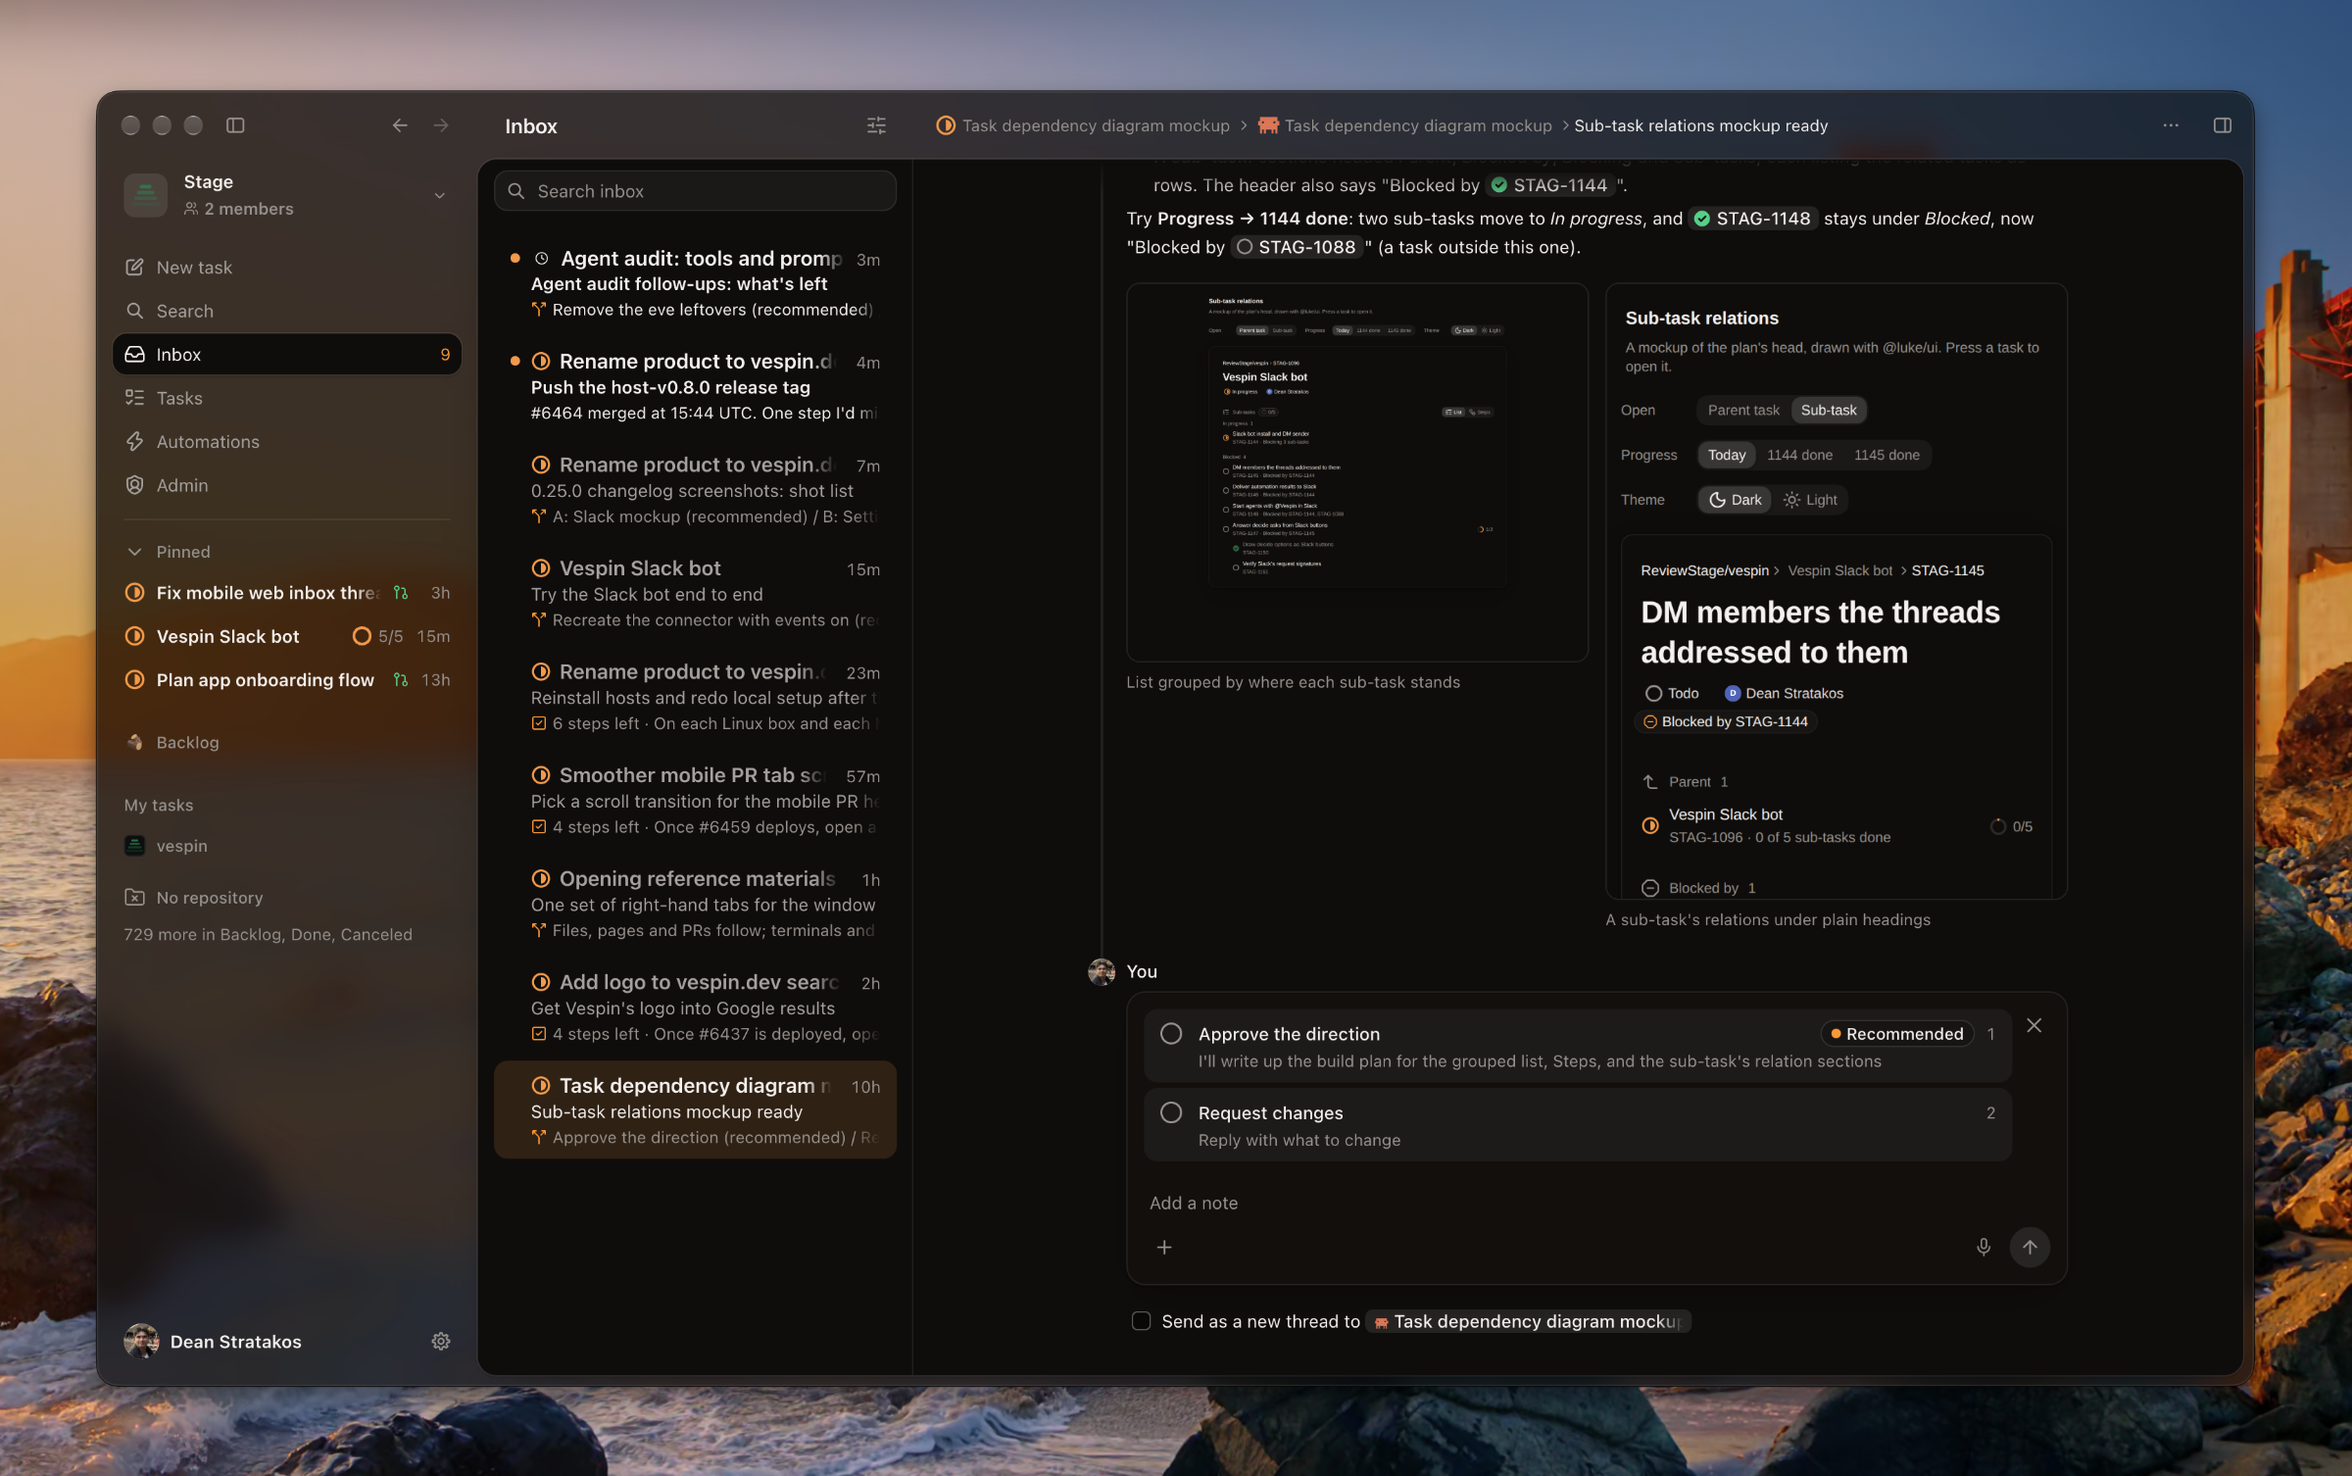
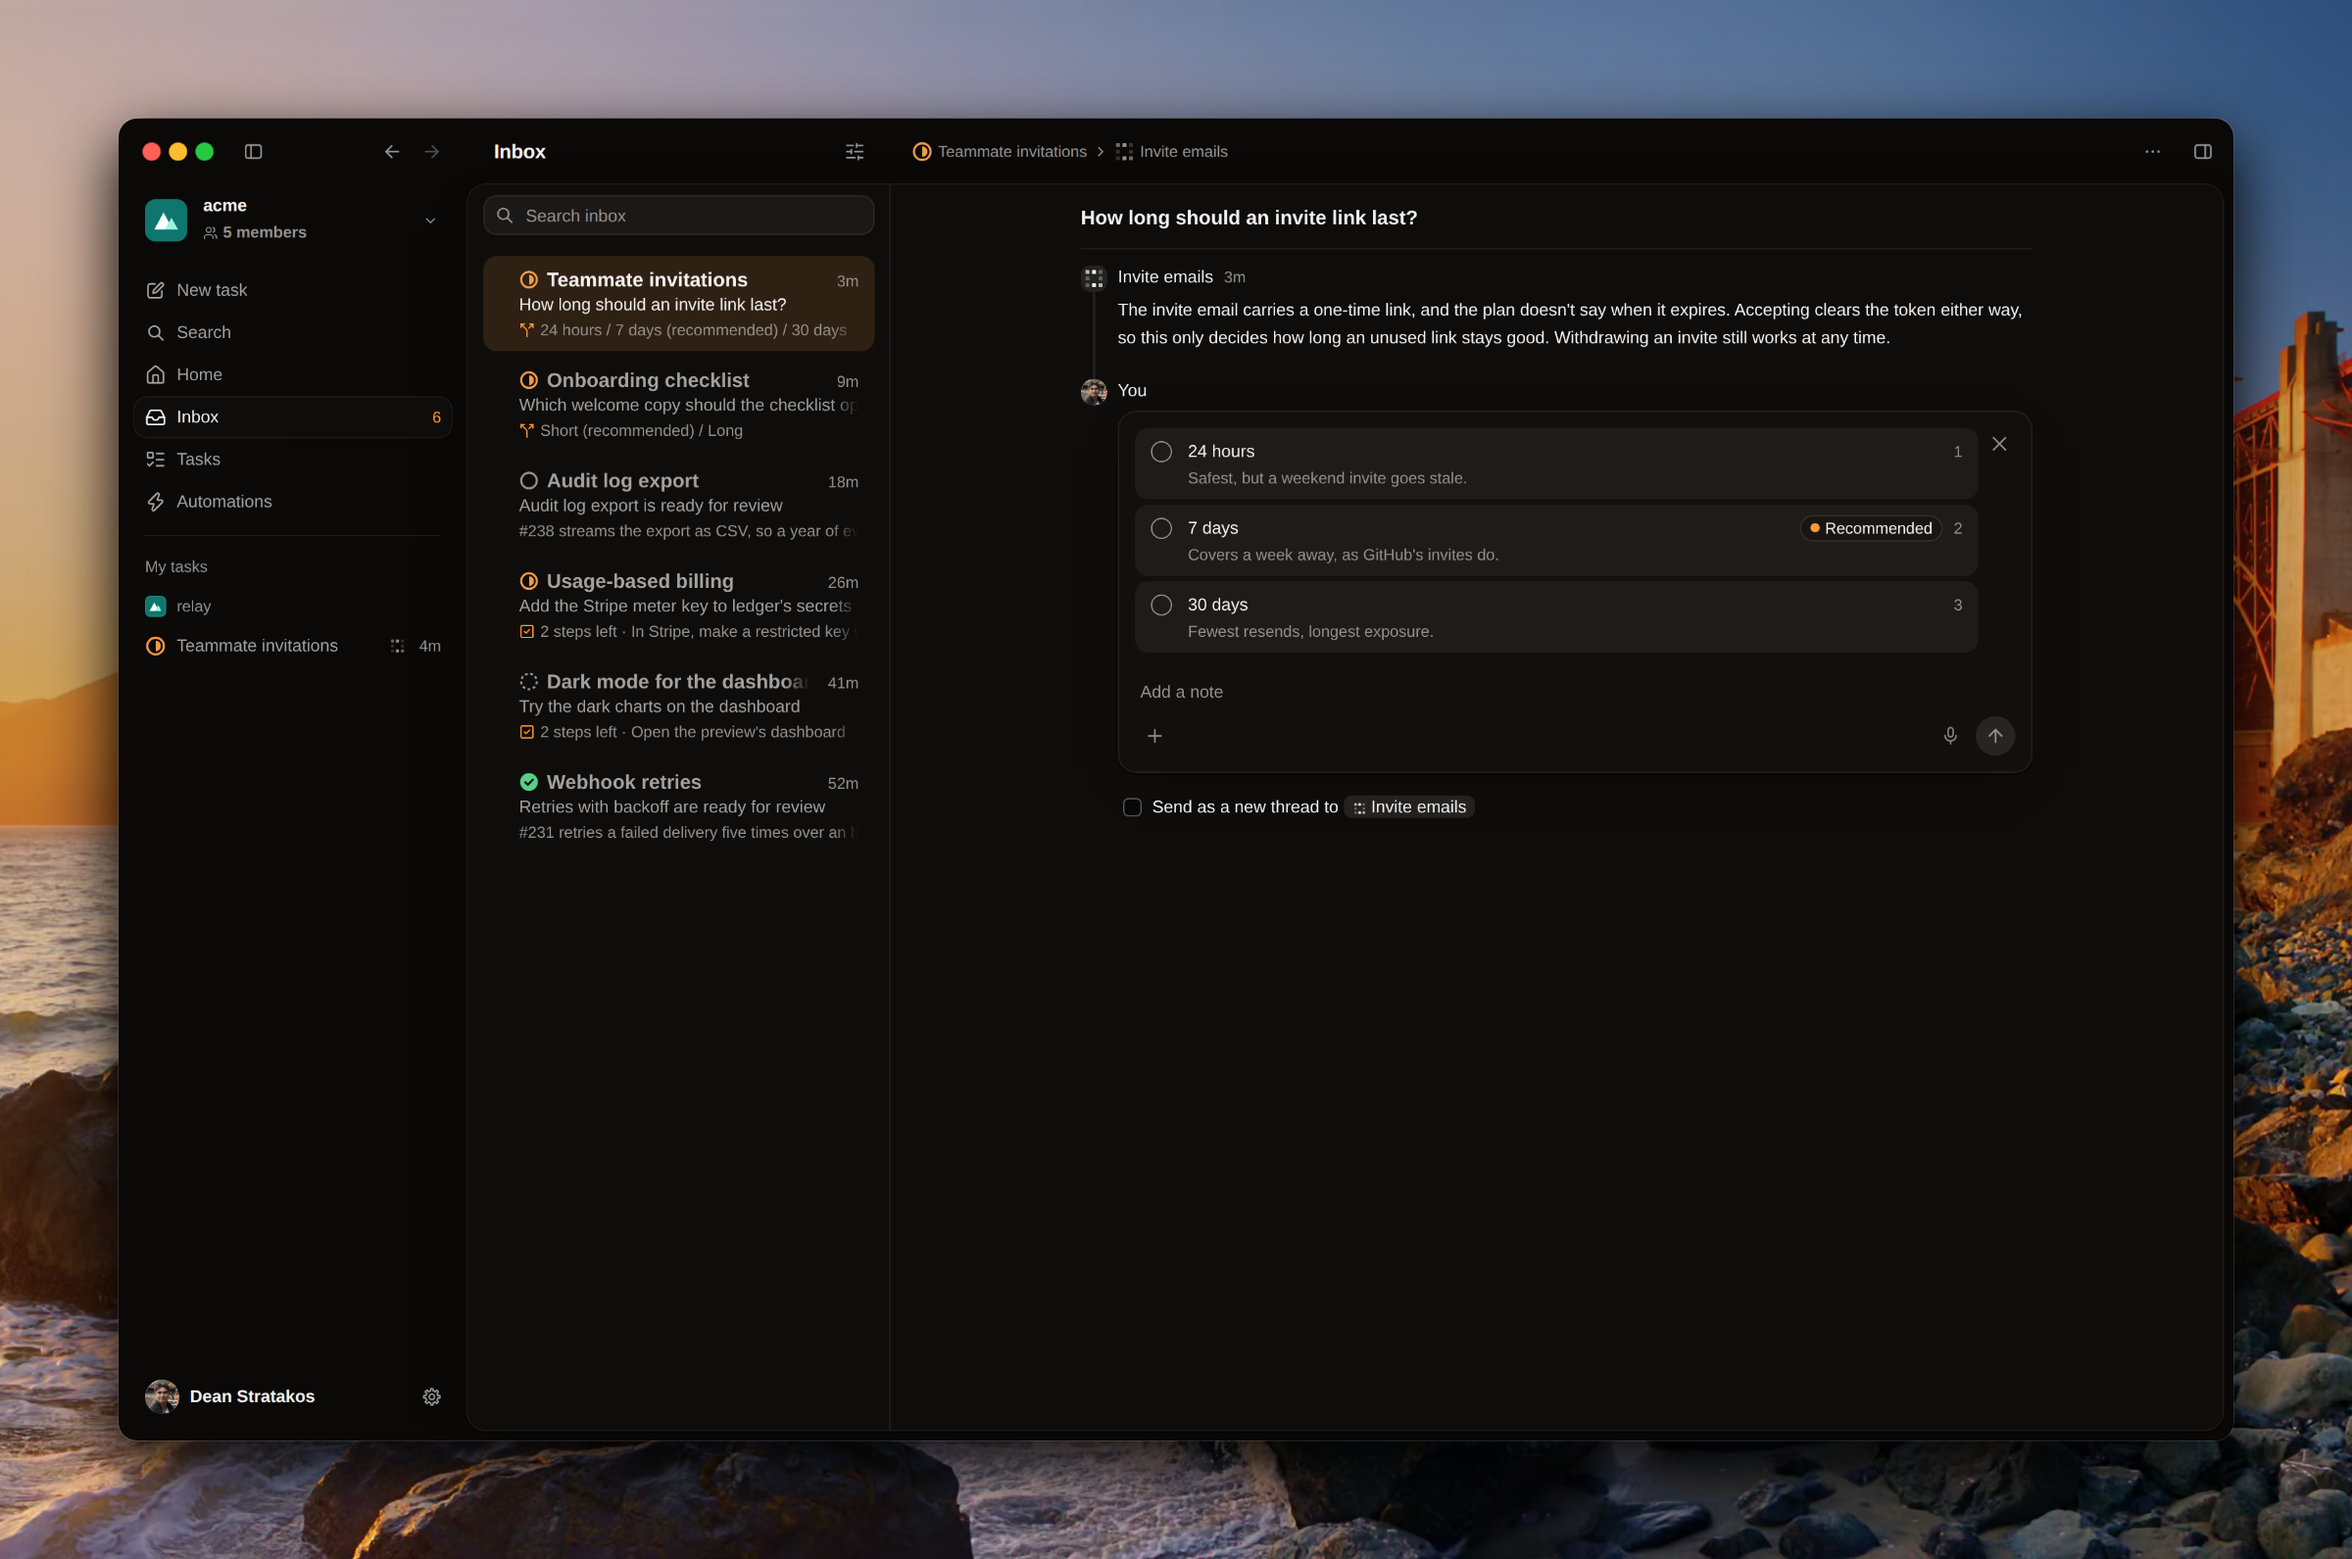
docs: show the Inbox on example data in the README

diff --git a/README.md b/README.md
@@ -16,7 +16,7 @@
   <a href="https://vespin.dev">Website</a> - <a href="https://github.com/ReviewStage/vespin/releases/latest">Download</a> - <a href="https://vespin.dev/app">Web app</a> - <a href="CHANGELOG.md">Changelog</a>
 </p>
 <p align="center">
-  <img src=".github/assets/inbox.png" alt="The Vespin Inbox: threads from coding agents, one open with an agent asking you to approve its direction">
+  <img src=".github/assets/inbox.png" alt="The Vespin Inbox: threads from coding agents, one open with an agent asking how long an invite link should last">
 </p>
 
 ## What's Vespin?
